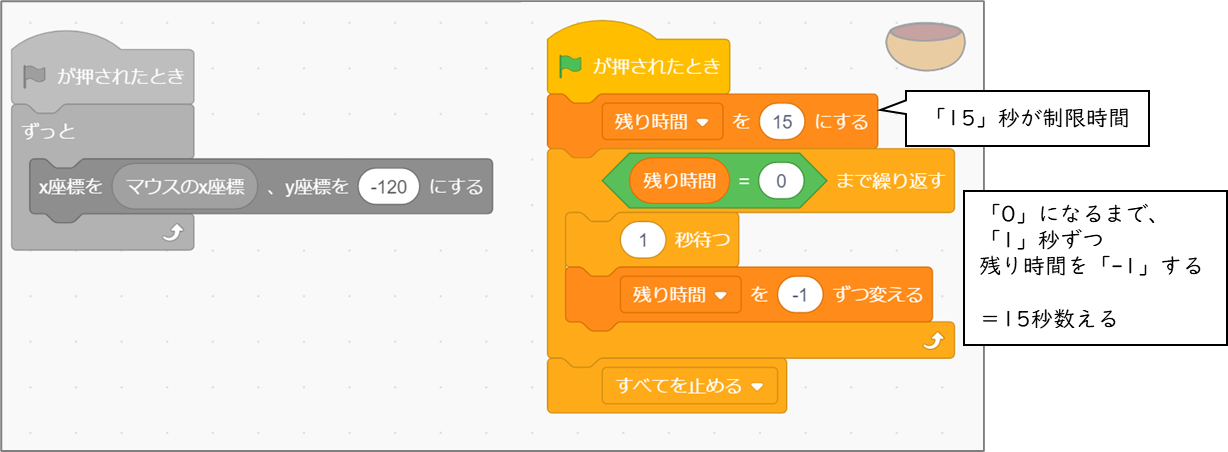
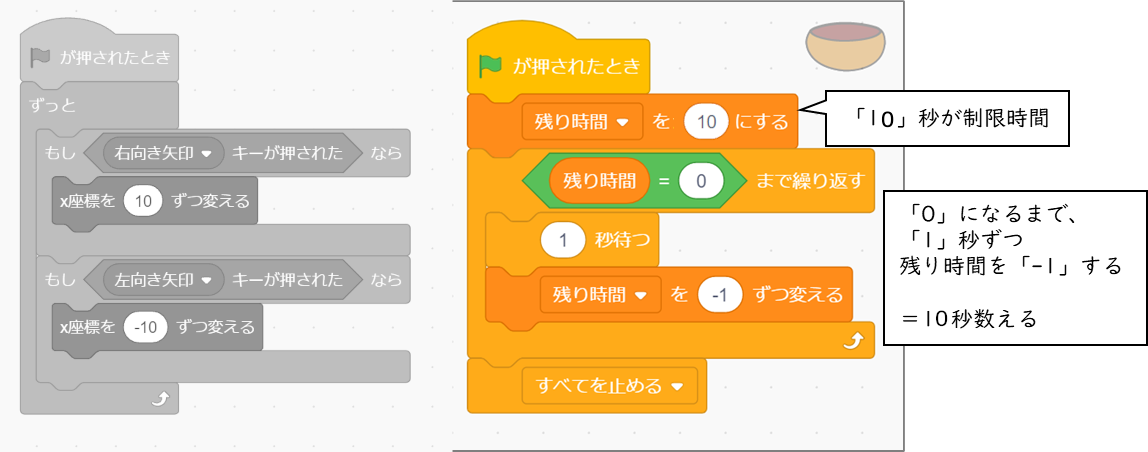
第2回資料アップデート

diff --git a/src/style.css b/src/style.css
@@ -5,7 +5,8 @@ body {
     --red: #ff4b00;
     --red-light: #ff4b001a;
     --yellow: rgb(255, 241, 0);
-    --green: rgb(3, 175, 122);
+    --green: #03af7a;
+    --green-light: #03af7a1a;
     --blue: #005aff;
     --blue-light: #005aff1a;
     --sky: rgb(77, 196, 255);
@@ -121,13 +122,18 @@ img {
     margin-block: 1em;
     margin-inline: -1em;
     padding: 0.5em 2em;
-    background-color: var(--red-light);
+    background-color: var(--color-accent-light);
     border-radius: 0.8em;
-    border: solid 2px var(--red);
+    border: solid 2px var(--color-accent);
+}
+
+.work.work--extra {
+    --color-accent: var(--green);
+    --color-accent-light: var(--green-light);
 }
 
 .work h2 {
-    background-color: var(--red-light);
+    background-color: var(--color-accent-light);
 
 }
 
@@ -142,7 +148,7 @@ img {
     content: counter(step);
     padding: 0.2em 0.5em;
     border-radius: 9999px;
-    background-color: var(--red);
+    background-color: var(--color-accent);
     font-family: var(--font-gothic);
     font-weight: 700;
     color: #fff;

diff --git a/src/lesson2/lesson2.md b/src/lesson2/lesson2.md
@@ -4,7 +4,11 @@
 2022年 10月 8日 岸 嘉丸
 </div>
 
-<!-- ルール -->
+## 心得
+
+1. どうなるかわからないときは、たくさん試してみよう！ たくさん失敗しよう！
+2. マネするだけではなく、「どうして動く？」や「変えてみたらどうなる？」を考えよう！
+3. わからないことがあるときは、周りの友達や、スタッフさんに質問しよう！
 
 
 <div class="work">
@@ -12,7 +16,7 @@
 ## くだもの拾いゲームを作ろう
 落ちてくるくだもの（りんご）を拾うゲームを作ります。
 
-<img src="./images/image31.png" alt="" width="300" />
+<img src="./images/image31.png" alt="" width="250" />
 
 ### <span class="divide">小さく分けて考える</span>
 
@@ -23,18 +27,20 @@
 
 </div>
 
-<!-- マウスにするかも -->
-## 「○○キーが押された」ブロック
+---
+
+<!-- マウス操作も検討したが、キーボード操作のほうが移動の実装がシンプルなのでキーボードで。 -->
+<!-- ## 「○○キーが押された」ブロック
 キーボードで操作するときは、 **「○○キーが押された」** ブロックを使います。
 
-<img src="./images/image3.png" alt="" width="150" />
+<img src="./images/image3.png" alt="" width="200" /> -->
 
 
 ## xy座標（エックス・ワイざひょう）
 座標（ざひょう）とは、画面の中の場所を、数字で表す方法のことです。
 横（よこ）の位置を x（エックス）座標、縦（たて）の位置を y（ワイ）座標で表します
 
-<img src="./images/image5.png" alt="" width="600" />
+<img src="./images/image5.png" alt="" width="500" />
 
 スプライトの座標は、スプライトの名前の横に表示されています。
 
@@ -43,9 +49,11 @@
 背景から「xy-grid」を選ぶと、背景に座標軸を表示できます。
 
 <div class="columns-two">
-<img src="./images/image7.png" alt="" width="200" />
-<img src="./images/image8.png" alt="" width="300" />
+<img src="./images/image7.png" alt="" width="150" />
+<img src="./images/image8.png" alt="" width="250" />
 </div>
+
+---
 
 <div class="work">
 
@@ -59,15 +67,20 @@
 <img src="./images/image33.png" alt="" width="100" />
 
 #### ネコは使わないので削除する。
-#### ボウル <img src="./images/image33.png" alt="" width="50" /> をプログラムして、横にだけ動くようにする。
+#### ボウル <img src="./images/image33.png" alt="" width="50" /> をプログラムして、横に動くようにする。
 
-<img src="./images/image34.png" alt="" width="600" />
+<img src="./images/2022-10-01-18-08-08.png" alt="" width="300" />
 
 #### <img src="./images/flag.png" alt="" width="30" /> をクリックして、キーボードで動かせることを確認する。
 うまくいかないときは、プログラムを直そう。うまくできていたら次に進みます。
 
-
 </div>
+
+### x軸（横の動き）
+
+<img src="./images/move-x.png" alt="" width="500" />
+
+---
 
 ## クローン
 クローンは、分身をつくる機能で、おなじスプライトをたくさん表示させたいときに使います。
@@ -86,33 +99,34 @@
 
 <img src="./images/image36.png" alt="" width="300" />
 
-#### リンゴ <img src="./images/image35.png" alt="" width="50" /> をプログラムして、ランダムな場所から落ちてくるようにする。
+---
 
+#### リンゴ <img src="./images/image35.png" alt="" width="50" /> をプログラムして、ランダムな場所から落ちてくるようにする。
 
 <img src="./images/image37.png" alt="" width="600" />
 
 ####  このプログラムを動かすとどうなるか、まずは頭の中で動かしてみよう
 
 <!-- りんごの動きをシミュレーションさせる -->
+<span class="simulate">頭の中で動かしてみる</span> リンゴがどんな風に動くのかシミュレーションしよう。
 
-<span class="simulate">頭の中で動かしてみる</span>
-プログラムを一度頭の中で動かしてみて、どんな風に動くのかシミュレーションしよう。
+<div style="background: white;">
+<img src="./images/2022-09-26-04-46-32.png" alt="" width="600" style="opacity: 0.3;" />
+</div>
 
-![](./images/2022-09-26-04-46-32.png)
-
-
-#### をクリックして、リンゴがランダムな場所から落ちることをたしかめる。
+#### <img src="./images/flag.png" alt="" width="30" /> をクリックして、リンゴがランダムな場所から落ちることをたしかめる。
 
 </div>
 
+---
 
 ## 変数（へんすう）
 変数（へんすう）とは、「変更できる数」のことです。
 例えば、ゲームのスコアを記録したり、HP を設定したりできます。
 
 <div class="columns-two">
-<img src="./images/image26.png" alt="" width="300" />
-<img src="./images/image27.png" alt="" width="200" />
+<img src="./images/image26.png" alt="" width="200" />
+<img src="./images/image27.png" alt="" width="150" />
 </div>
 
 ## 変数の使い方
@@ -120,8 +134,8 @@
 「変数を作る」をクリックして、変数の名前を入力します。
 
 <div class="columns-two">
-<img src="./images/image28.png" alt="" width="300" />
-<img src="./images/image29.png" alt="" width="300" />
+<img src="./images/image28.png" alt="" width="260" />
+<img src="./images/image29.png" alt="" width="260" />
 </div>
 
 ### 変数の値を表示する / 非表示にする
@@ -131,10 +145,19 @@
 
 <img src="./images/image30.png" alt="" width="300" />
 
+---
+
 <div class="work">
 
+## スコアを記録する
 #### 「スコア」の変数を作る
-→ 「スコア」と入力
+
+<div class="columns-two">
+<img src="./images/image28.png" alt="" width="200" />
+<img src="./images/image29.png" alt="" width="200" />
+</div>
+
+
 ####  リンゴをひろうとスコアが増えるように、リンゴのプログラムを変更する。
 
 <img src="./images/image39.png" alt="" width="600" />
@@ -142,6 +165,9 @@
 #### <img src="./images/flag.png" alt="" width="40" /> をクリックして、リンゴがボウルにふれるとスコアが増えることをたしかめる。
 
 </div>
+
+
+---
 
 <div class="work">
 
@@ -151,56 +177,78 @@
 <img src="./images/image40.png" alt="" width="100" />
 
 
-####  ボウルに残り時間を計測するプログラムをする。
+####  ボウルに残り時間を計測するプログラム
 
 <!-- 時間計測をシミュレーションさせる -->
 <img src="./images/image41.png" alt="" width="600" />
 
-<span class="simulate">頭の中で動かしてみる</span>
-プログラムを一度頭の中で動かしてみて、どんな風に動くのかシミュレーションしよう。
+<span class="simulate">頭の中で動かしてみる</span> 残り時間がどう変わるのかシミュレーションしよう。
 
-<div style="background: white; height: 300px;"></div>
+<div style="background: white; height: 200px;"></div>
 
-####  をクリックして、15 秒たったらゲームが終わることをたしかめる。
+#### プログラムを作る
+
+
+#### <img src="./images/flag.png" alt="" width="40" /> をクリックして、時間がたったらゲームが終わることをたしかめる。
 
 </div>
 
+---
+
 <div class="work">
 
-####  背景を設定する。
+## 背景を設定する
 
 <img src="./images/image42.png" alt="" width="200" />
 
 **完成！**
-</div>
 
 ##  つくったプログラムを保存しよう
 プログラムを保存します。
+</div>
+
+<div class="work work--extra">
+
+## 発展　一番下まで落ちたリンゴを消す
+
+リンゴのコードを改良して、下に落ちたリンゴが消えるようにしよう。
+
+<img src="./images/remove_on_fall.png" alt="" width="600" />
+
+</div>
+
+---
+
+<div class="work work--extra">
 
 ## 発展　スコアが減るアイテムを作ろう
 
-<span class="find">大事なところを見つけ出す</span>
+#### 新しいスプライトを追加する（例：カミナリ <img src="./images/2022-10-01-23-38-50.png" alt="" width="50" /> 。他でもOK）
 
-<!-- コピーを教えちゃう？ -->
+#### リンゴのコードをコピーする（コードをドラッグして、新しいスプライトの上でドロップ）
 
-スコアを「へらす」ためには、どこを変えればいいだろう？
-増やしているのは、どの命令かな？
+<img src="./images/2022-10-01-23-42-08.png" alt="" width="250" />
 
-## 自由に作品を作ろう
+#### 当たったときにスコアがへるように、コードを直す
 
-- 新しくゲームを作っても、これまでに作ったゲームを改良しても構いません。
-- 改良するときのヒント
-  - リンゴが落ちるまでの時間をランダムにする
-  - スコアが増えるほど、ボウルの動きが遅くなるようにする
-  - 拾ったらスコアが減るアイテムを追加する
+<span class="find">大事なところを見つけ出す</span> スコアをへらすためには、どこを変えればいいだろう？　今スコアを増やしているのは、どの命令かな？　考えてみよう
+
+#### その他、落ちるスピードや、出てくる個数を調整する。
+
+</div>
+
+<div class="work work--extra">
+
+## 改良のヒント
+
+- **リンゴが落ちるまでの時間をランダムにする**
+- **スコアが増えるほど、ボウルの動きが遅くなるようにする**
+
+</div>
 
 ## 他の人に自分の作品を見せよう
-- 一人ずつ、自分の作品を紹介しましょう。どんなふうに遊ぶのか、どんなところを工夫したか、なにがまだできていないのかなどを説明してください。
-- 作品を紹介する人は順番に交代します。
-
+一人ずつ、自分の作品を紹介しましょう。どんなところを工夫したか、なにがまだできていないのかなどを説明してください。
 
 ## 次回
 
-次回は **アクションゲーム** を作ります！
-iPadの充電を忘れずにして、来てください。
-
+次回は **アクションゲーム** を作ります！　iPadの充電を忘れずにして、来てください。
